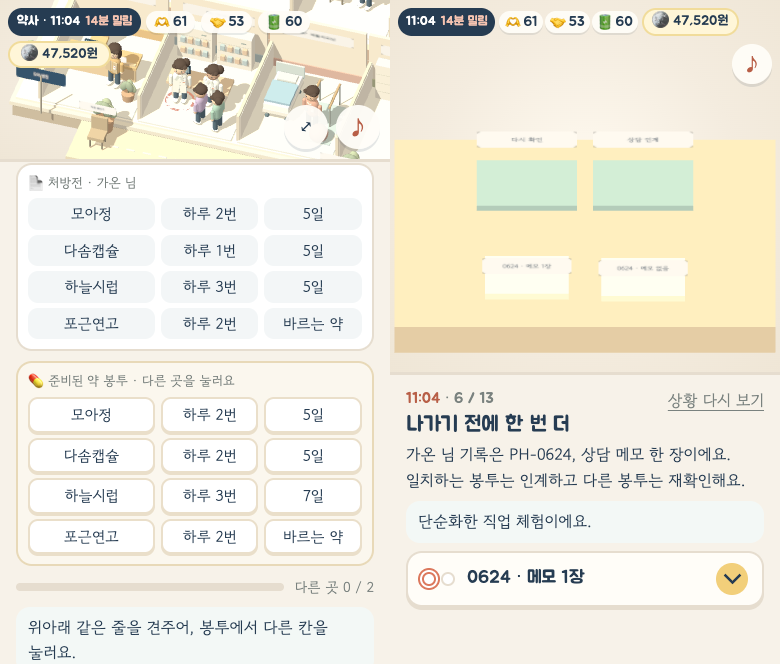
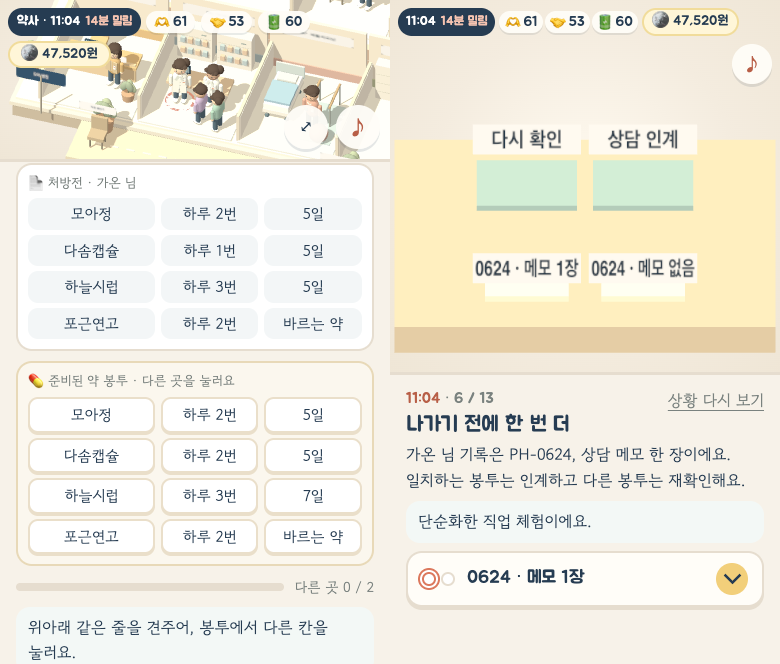
Preserve pharmacist comparisons before and after improving placards

Changed region(s): [[0.5846, 0.3614, 0.8923, 0.4518], [0.5846, 0.1807, 0.8923, 0.241]]

diff --git a/career-day/CODEX-BOARD.md b/career-day/CODEX-BOARD.md
@@ -11,3 +11,5 @@
 49f6b6a에 가까이 보기·오답 재확인·평면 대체 입력과 걷기 검사를 연결했습니다. 세 직업 모두 기존 이야기의 선택과 여파를 유지합니다. 여섯 차례 일이 도착하고 네 작업 자리와 휴게실·탈의실을 오갑니다. 통합 담당과 나눠 쓰는 다섯 엔진 파일은 변경하지 않았습니다.
 
 폰·SE·PC 전체 입력과 영상 및 전후 비교는 진행 중입니다. 약사 폰 예비 실행은 출근 기록 저장까지 오류·가로 밀림 0입니다. 운영 배포와 PR 병합은 보류 중입니다.
+
+약사 827d82f에서 폰·SE·PC의 하루 저장과 전체 영상 검사를 확인했습니다. 세 화면 모두 보기가 화면 안에 들어오고 앱 오류와 가로 밀림, 흰 프레임이 0입니다. 최초 3D 사진에서 작은 표찰을 발견해 00b1623에서 글씨를 키우고 위로 기울였습니다. [봉투 대조 전후](review/2026-11-21/pharmacist/compare.png).
